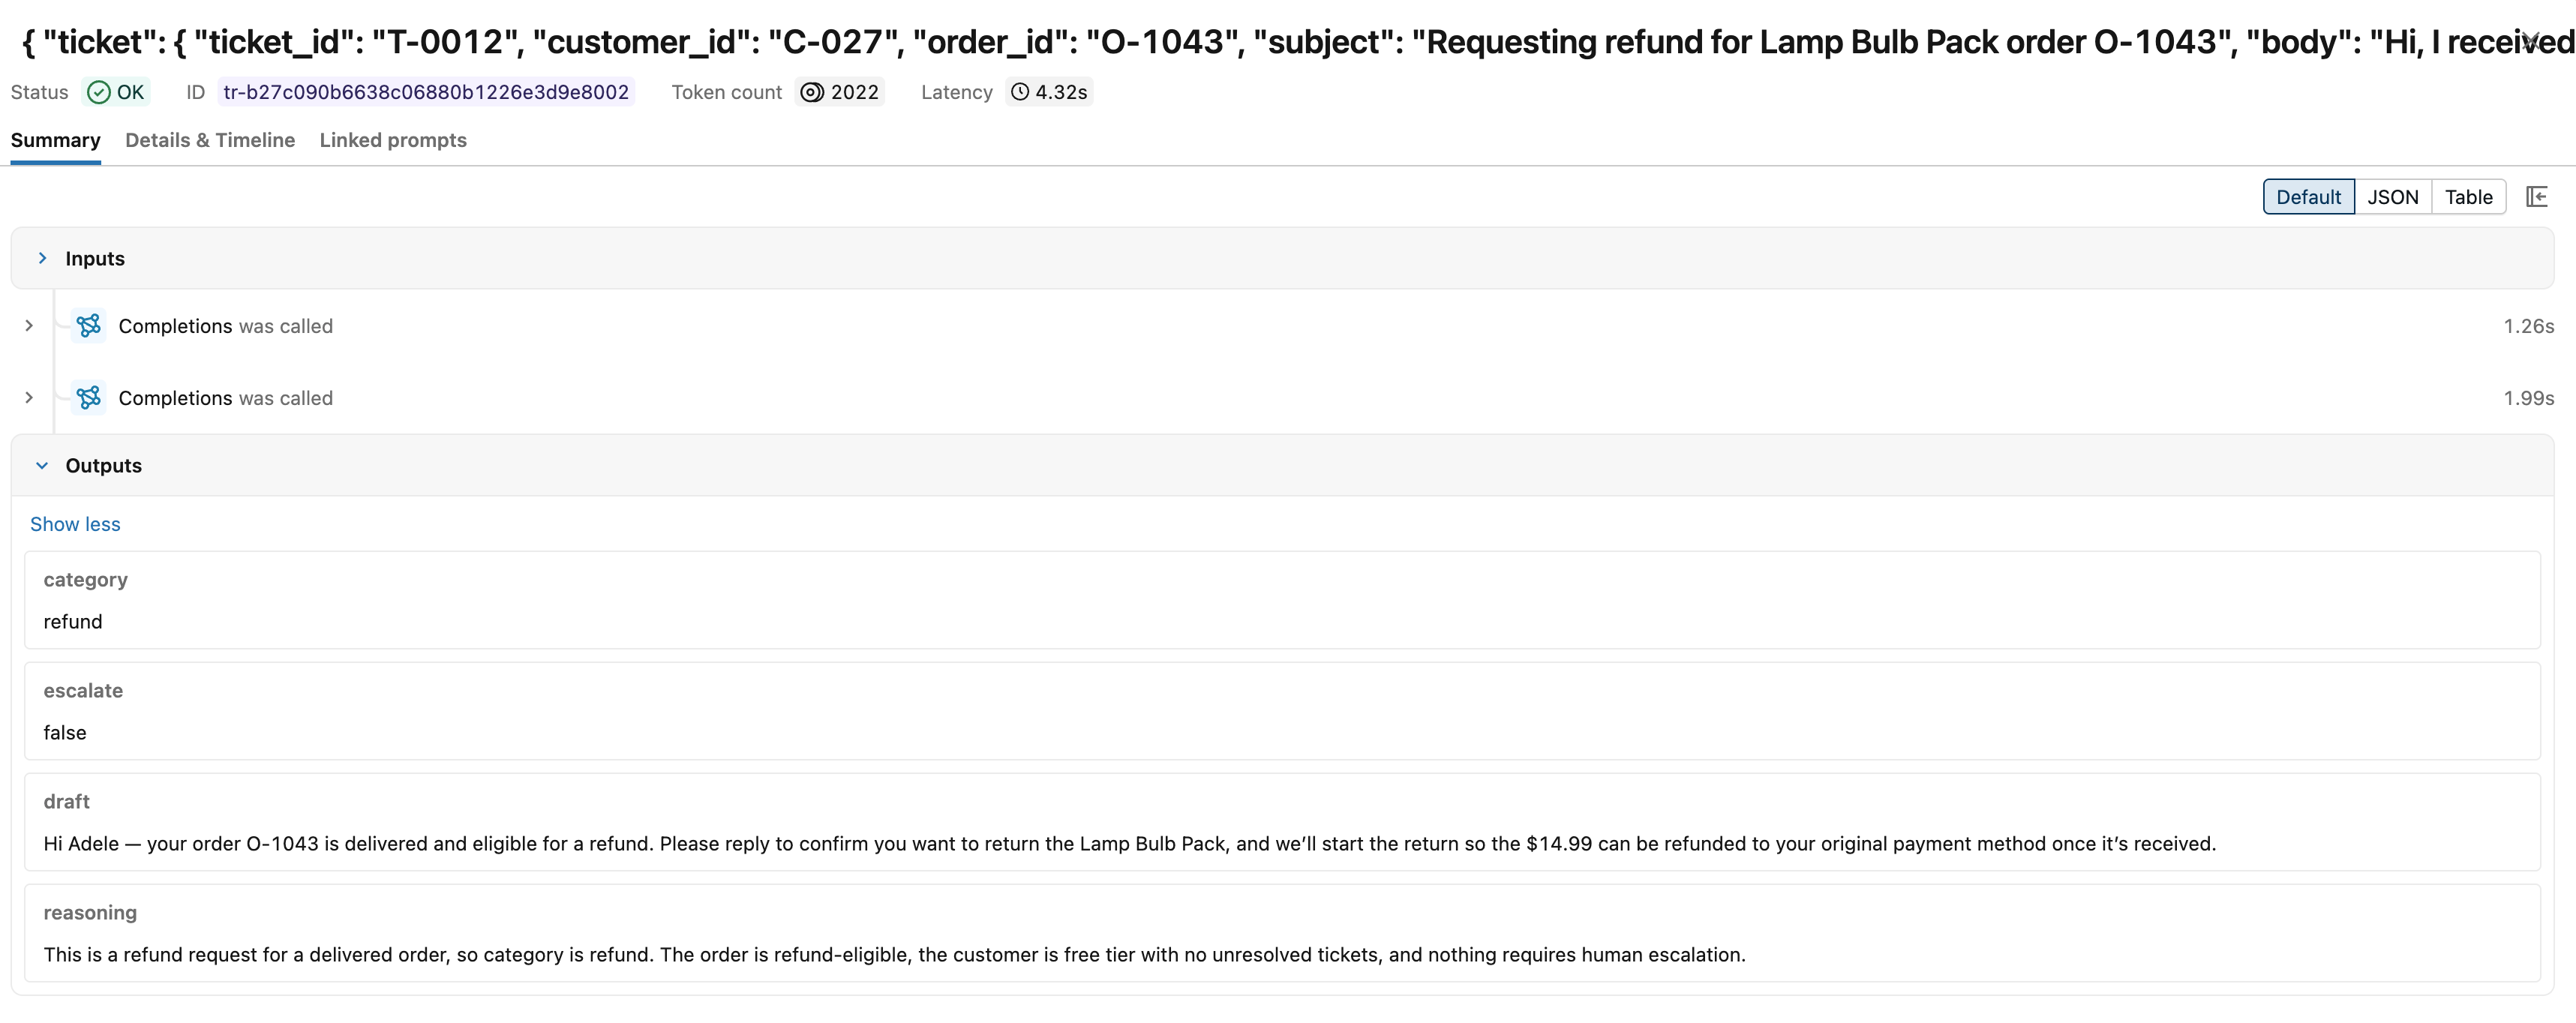
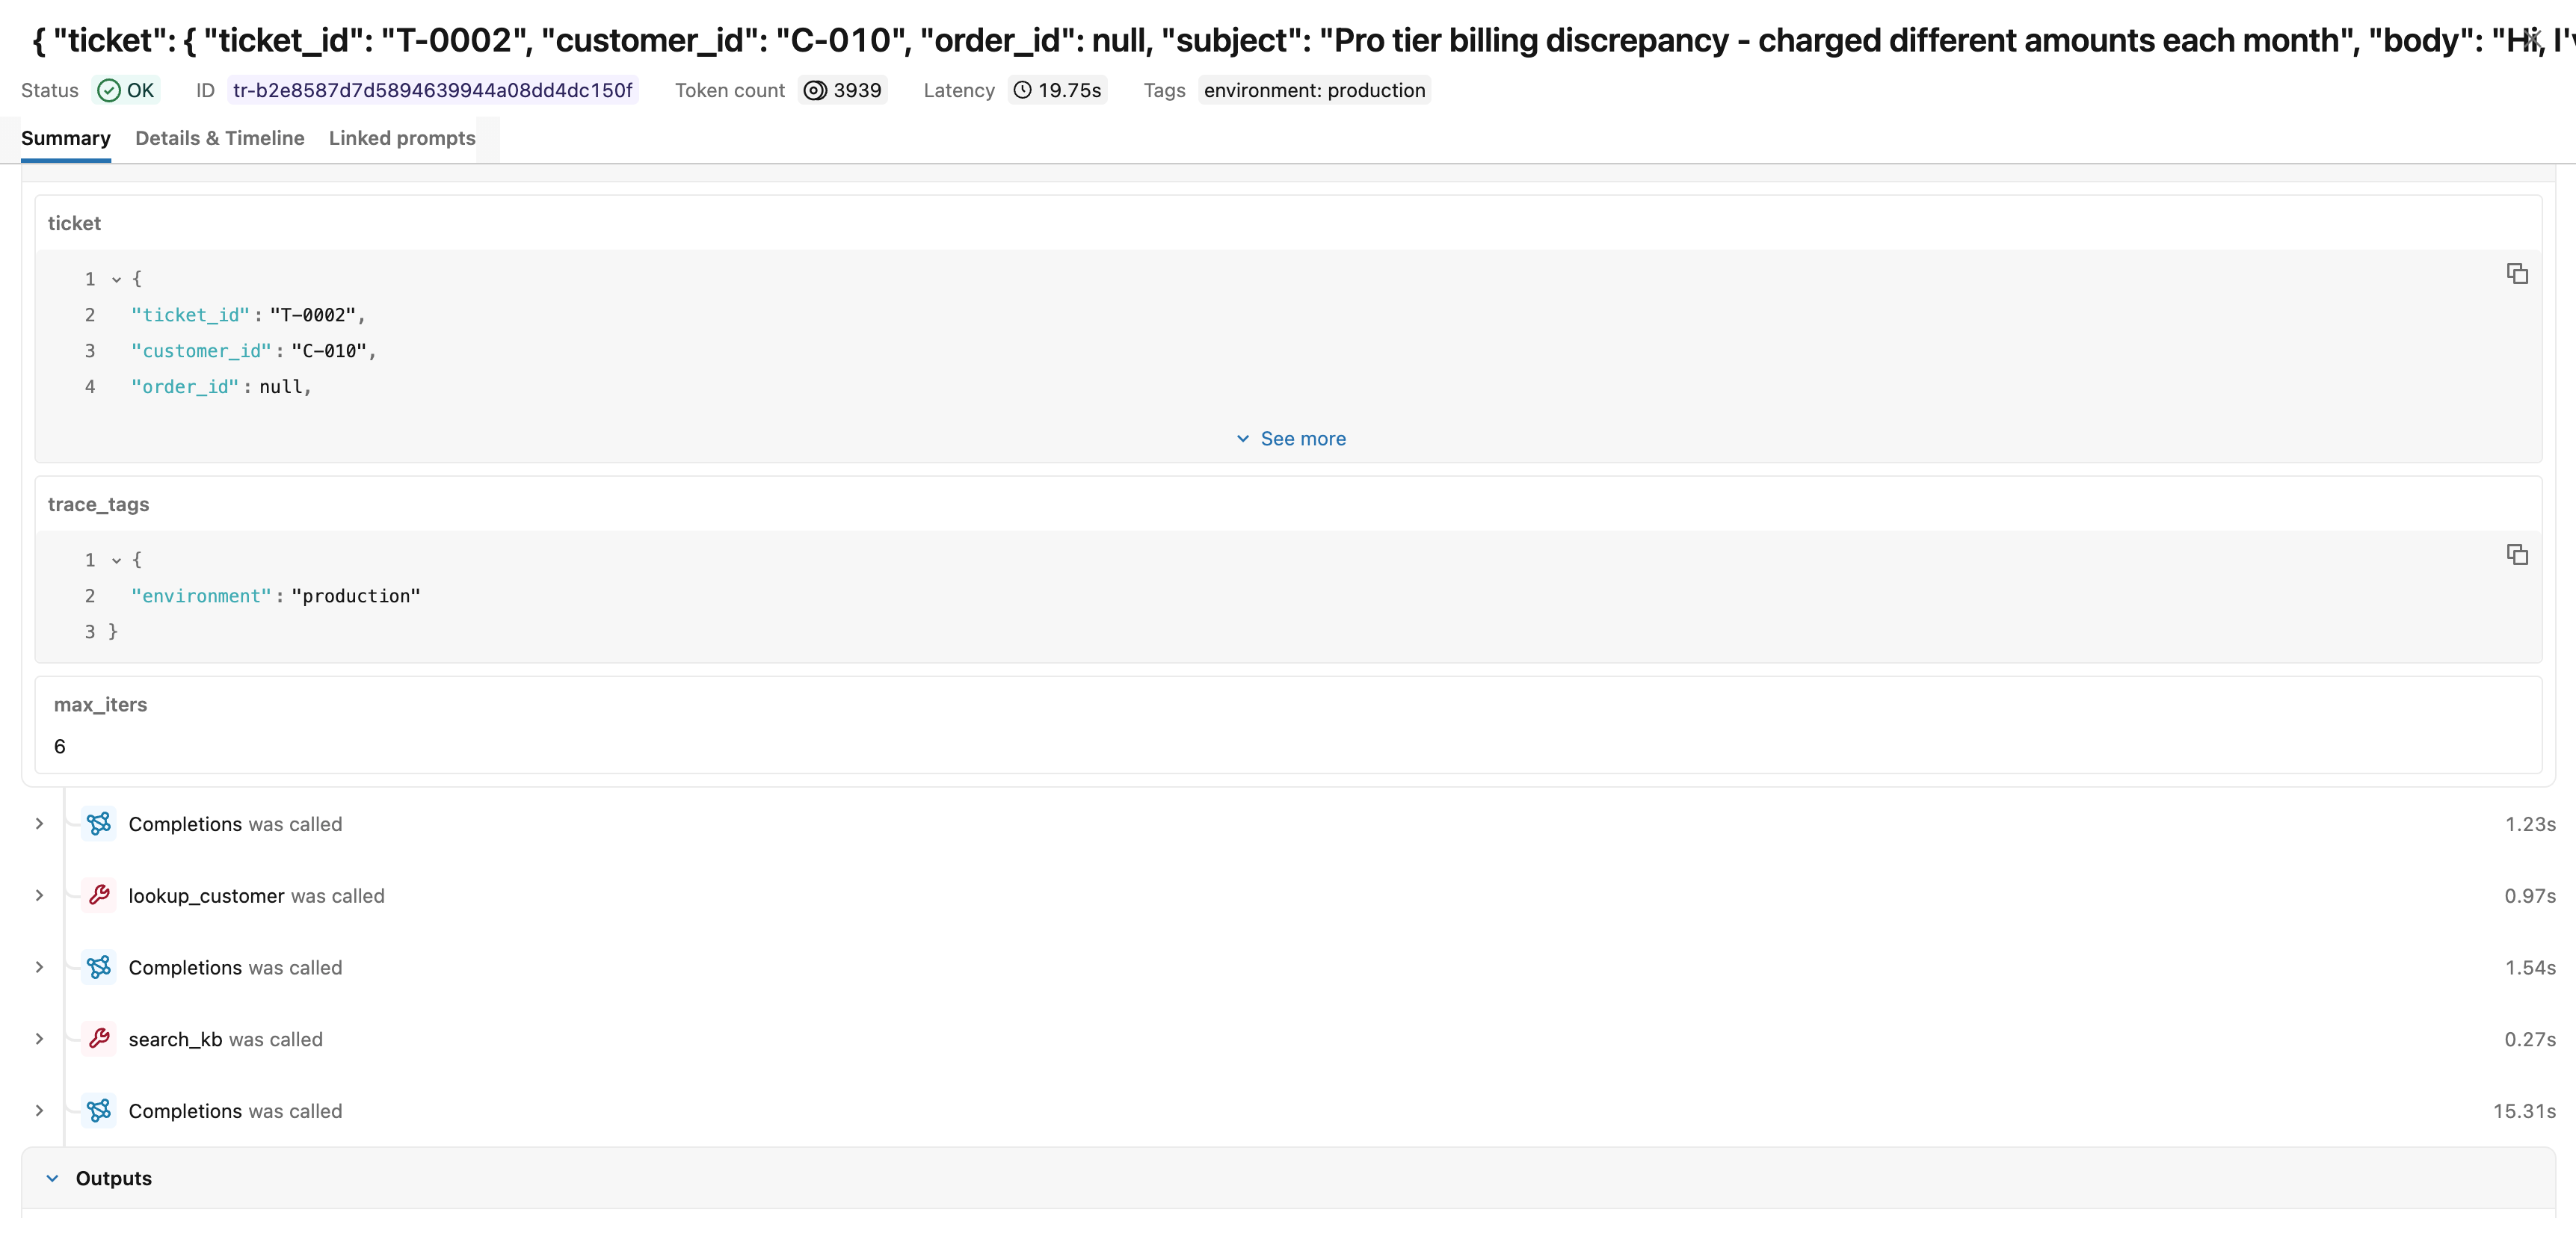
Trace tools as typed TOOL spans named after the function
- Decorate lookup_customer/check_order_status/search_kb with
  @user.trace(span_type=SpanType.TOOL); drop the manual "tool_call" span in agent.py
  (spans now show the tool name with auto inputs/outputs)
- tool_calls_valid finds tool spans by SpanType.TOOL and flags ERROR status or
  {"error": ...} payloads (was keyed on the old "tool_call" span name)
- Refresh trace-summary / tool-calls-graph screenshots to show the named spans

diff --git a/src/agent.py b/src/agent.py
@@ -130,15 +130,14 @@ def run_agent(ticket: dict[str, Any], system_prompt: str | None = None, trace_ta
                 ],
             })
             for tc in msg.tool_calls:
-                with mlflow.start_span(name="tool_call") as span:
-                    span.set_inputs({"tool": tc.function.name, "arguments_raw": tc.function.arguments})
-                    fn = TOOL_FUNCTIONS.get(tc.function.name)
-                    try:
-                        args = json.loads(tc.function.arguments)
-                        result = fn(**args) if fn else {"error": f"Unknown tool {tc.function.name}"}
-                    except Exception as e:
-                        result = {"error": str(e)}
-                    span.set_outputs(result)
+                # Each tool fn is @mlflow.trace(span_type=TOOL)-decorated, so calling it creates
+                # a span named after the tool (e.g. lookup_customer) with auto inputs/outputs.
+                fn = TOOL_FUNCTIONS.get(tc.function.name)
+                try:
+                    args = json.loads(tc.function.arguments)
+                    result = fn(**args) if fn else {"error": f"Unknown tool {tc.function.name}"}
+                except Exception as e:
+                    result = {"error": str(e)}
                 messages.append({
                     "role": "tool",
                     "tool_call_id": tc.id,

diff --git a/src/scorers.py b/src/scorers.py
@@ -28,9 +28,13 @@ def response_length_ok(outputs: dict[str, Any]) -> int:
 
 @scorer
 def tool_calls_valid(trace) -> int:
-    """1 if no tool_call span in this trace resulted in an error."""
-    spans = trace.search_spans(name="tool_call") if trace else []
+    """1 if every tool span succeeded — no error status and no {"error": ...} payload."""
+    from mlflow.entities import SpanType
+    spans = trace.search_spans(span_type=SpanType.TOOL) if trace else []
     for span in spans:
+        status_code = getattr(getattr(span, "status", None), "status_code", None)
+        if str(status_code).upper().endswith("ERROR"):
+            return 0
         outputs = getattr(span, "outputs", None)
         if isinstance(outputs, dict) and "error" in outputs:
             return 0

diff --git a/src/tools.py b/src/tools.py
@@ -6,6 +6,8 @@ src.data_load.load_seed_tables (run in 00_production_traffic_and_monitoring).
 """
 from typing import Any
 
+import mlflow
+from mlflow.entities import SpanType
 from pyspark.sql import SparkSession
 
 from .config import CUSTOMERS_TABLE, KB_ARTICLES_TABLE, ORDERS_TABLE
@@ -20,6 +22,7 @@ def _esc(value: str) -> str:
     return str(value).replace("'", "''")
 
 
[email redacted](span_type=SpanType.TOOL)
 def lookup_customer(customer_id: str) -> dict[str, Any]:
     """Return account context for a customer: tier, account age, prior unresolved tickets."""
     rows = _spark().sql(
@@ -30,6 +33,7 @@ def lookup_customer(customer_id: str) -> dict[str, Any]:
     return rows[0].asDict(recursive=True)
 
 
[email redacted](span_type=SpanType.TOOL)
 def check_order_status(order_id: str) -> dict[str, Any]:
     """Return status, shipping, and refund eligibility for an order."""
     rows = _spark().sql(
@@ -40,6 +44,7 @@ def check_order_status(order_id: str) -> dict[str, Any]:
     return rows[0].asDict(recursive=True)
 
 
[email redacted](span_type=SpanType.TOOL)
 def search_kb(query: str) -> list[dict[str, Any]]:
     """Return up to 3 KB articles matching the query by simple keyword overlap."""
     articles = [